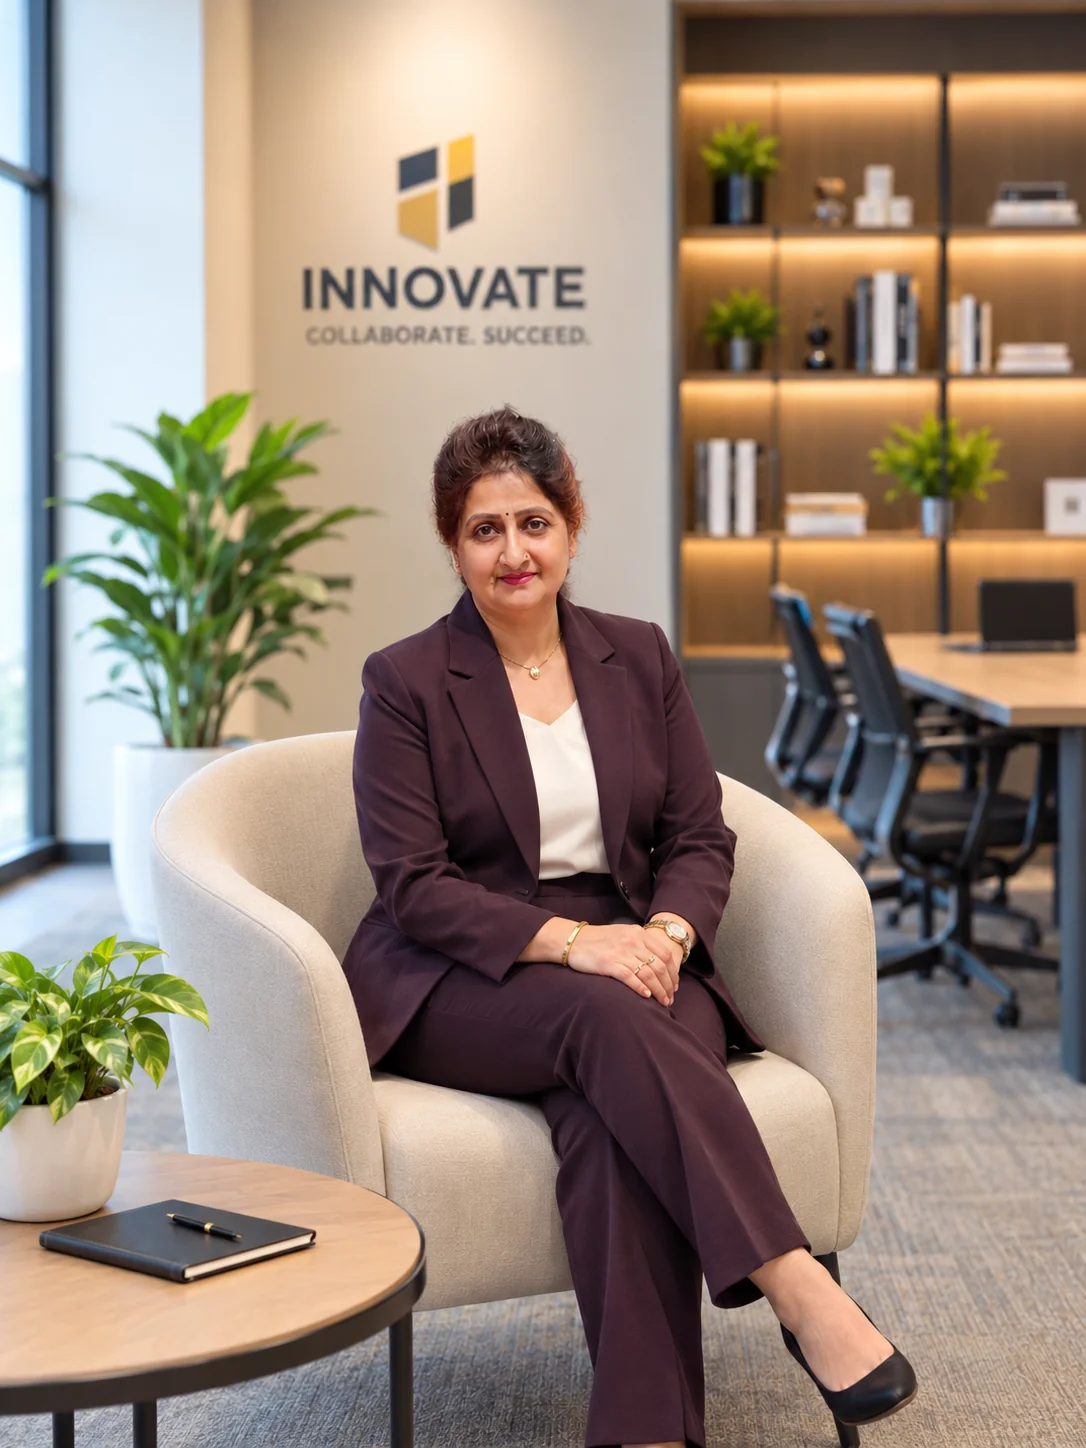
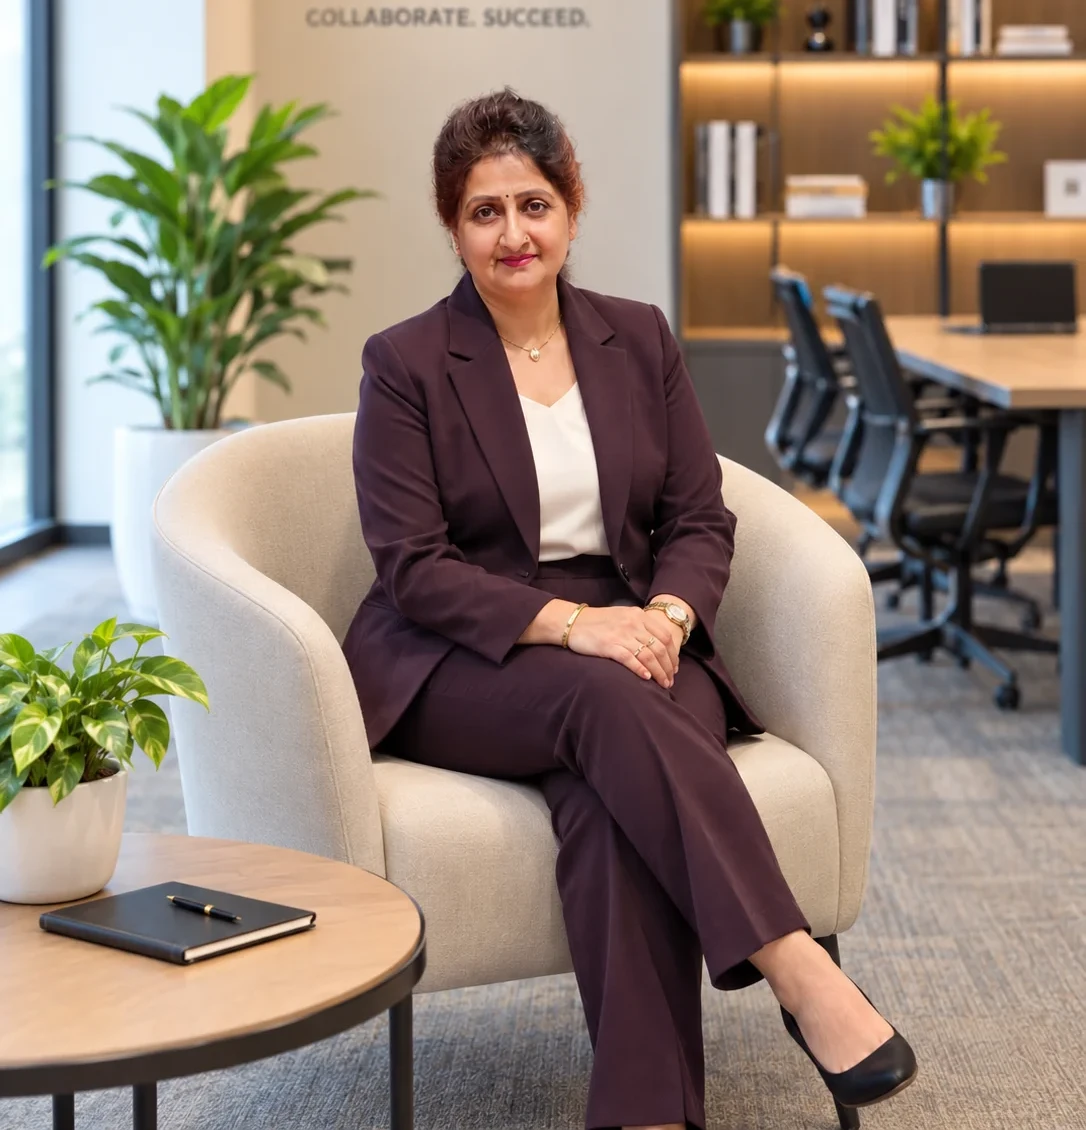
commit it

diff --git a/src/app/training/page.tsx b/src/app/training/page.tsx
@@ -504,10 +504,10 @@ export default function TrainingPage() {
       {/* Interactive Certificate Viewer Modal */}
       {selectedCert && (
         <div className="fixed inset-0 z-50 flex items-center justify-center bg-black/80 p-4 backdrop-blur-sm">
-          <div className="bg-[#17251E] border border-[#C9A227]/60 rounded-2xl max-w-lg w-full p-6 space-y-4 text-[#F5F5DC] relative shadow-2xl">
+          <div className="bg-[#17251E] border border-[#C9A227]/60 rounded-2xl max-w-lg w-full p-6 space-y-4 text-[#F5F5DC] relative shadow-2xl max-h-[90vh] overflow-y-auto">
             <button
               onClick={() => setSelectedCert(null)}
-              className="absolute top-4 right-4 text-[#F5F5DC]/80 hover:text-[#C9A227]"
+              className="absolute top-4 right-4 text-[#F5F5DC]/80 hover:text-[#C9A227] z-10 bg-[#17251E]/50 rounded-full p-1"
             >
               <span className="material-symbols-outlined text-2xl">close</span>
             </button>
@@ -519,6 +519,19 @@ export default function TrainingPage() {
                 {selectedCert}
               </h3>
             </div>
+            
+            <div className="w-full relative rounded border border-[#657A6A]/30 overflow-hidden bg-[#1C3329]">
+              <img 
+                src={
+                  selectedCert === "NSDC Accreditation & TC ID Reference" 
+                    ? "/images/national-skill-development-credential.webp" 
+                    : "/images/ciatn-clinical-practitioner-certificate.webp"
+                } 
+                alt={selectedCert}
+                className="w-full h-auto object-contain"
+              />
+            </div>
+
             <div className="p-4 bg-[#1C3329] border border-[#657A6A]/30 rounded-lg space-y-2 text-xs font-light text-[#F5F5DC]/90">
               <p><strong>Issuing Authority:</strong> Chromocosmo Institute of Aesthetics, Trichology & Nutrition (CIATN)</p>
               <p><strong>Verification Standard:</strong> Structured Practical Hours & Clinical Safety Compliance</p>

diff --git a/src/app/contact/page.tsx b/src/app/contact/page.tsx
@@ -151,8 +151,8 @@ export default function ContactPage() {
               </span>
               <ul className="space-y-2 font-body-md text-sm text-[#F5F5DC]/90">
                 <li className="flex justify-between">
-                  <span>Monday — Saturday:</span>
-                  <span className="text-[#F5F5DC]">10:00 AM — 7:00 PM</span>
+                  <span>Monday - Saturday:</span>
+                  <span className="text-[#F5F5DC]">10:00 AM - 7:00 PM</span>
                 </li>
                 <li className="flex justify-between">
                   <span>Sunday:</span>

diff --git a/src/components/Footer.tsx b/src/components/Footer.tsx
@@ -28,7 +28,10 @@ export default function Footer() {
             Dr. Akshaya Jain
           </p>
           <p className="font-body-md text-[#F5F5DC]/70 text-[12px] leading-relaxed font-light">
-            Cosmo • Tricho • Therapeutic Sanctuary, Pune.
+            Cosmo • Tricho • Therapeutic
+          </p>
+          <p className="font-body-md text-[#F5F5DC]/70 text-[12px] leading-relaxed font-light">
+            Pune - 411001
           </p>
         </div>
 

diff --git a/src/data/team.ts b/src/data/team.ts
@@ -46,7 +46,7 @@ export const INITIAL_TEAM_MEMBERS: TeamMember[] = [
     bio: "Experienced beauty and aesthetics educator with extensive expertise in beauty culture, aesthetics, beauty therapy, hair design, and professional training.",
     category: "CLINICAL TEAM",
     displayOrder: 2,
-    objectPosition: "center 30%",
+    objectPosition: "center top",
     status: "published",
   },
   {
